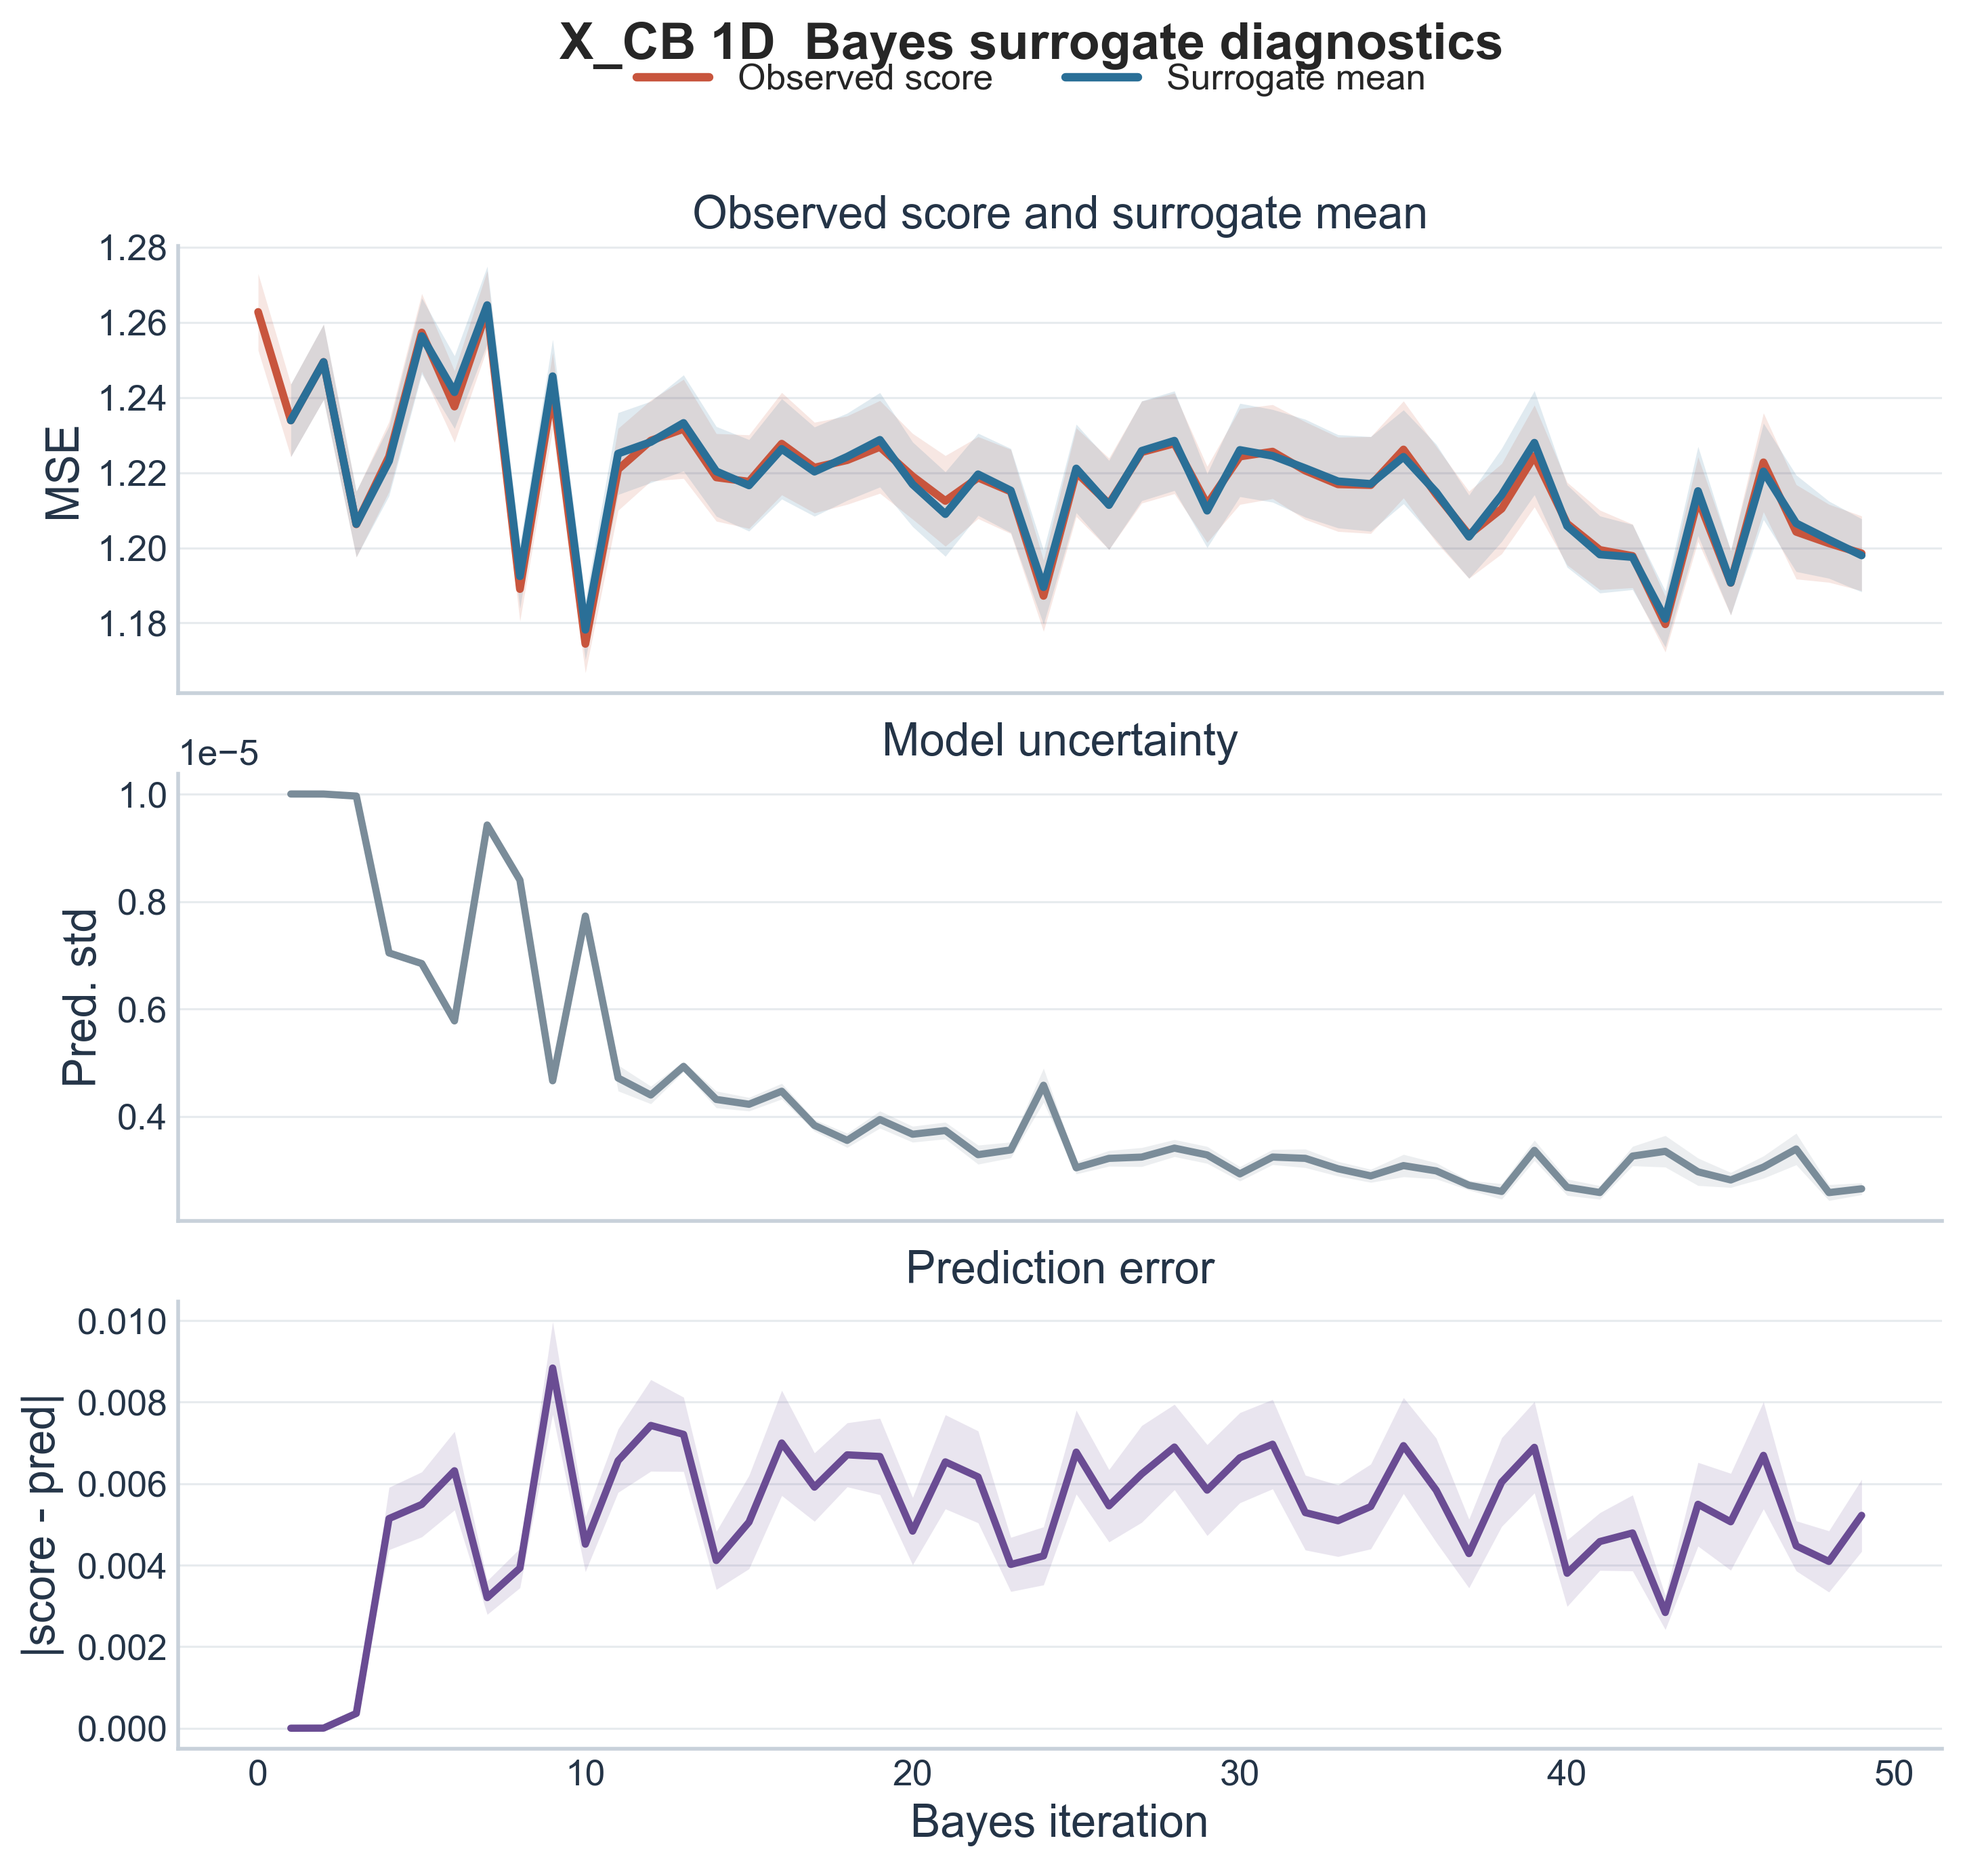
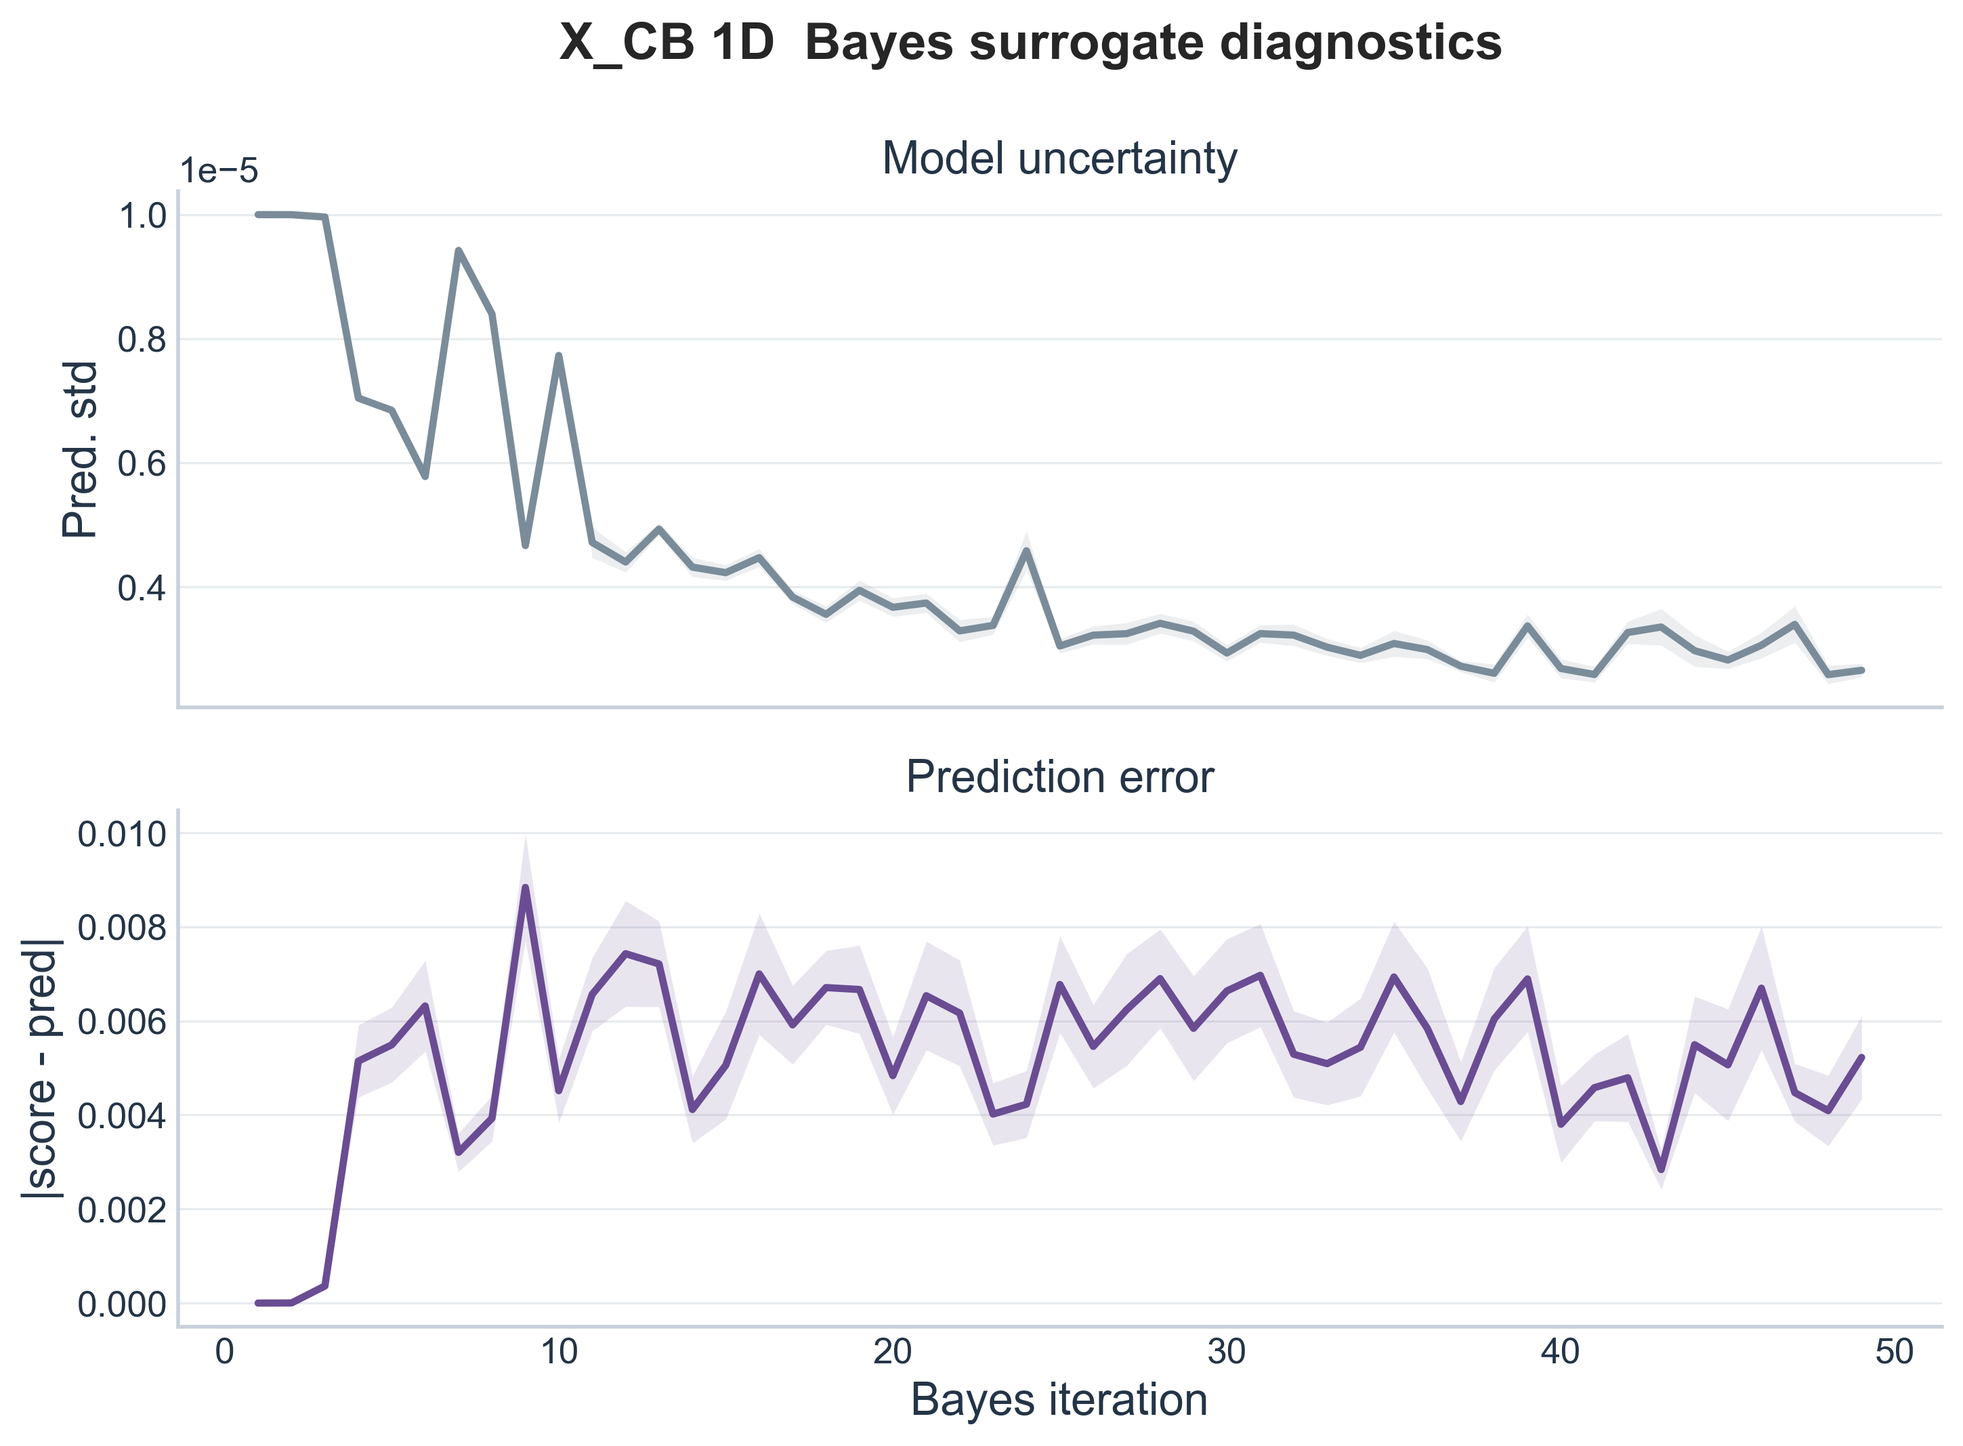
update bayes plots

diff --git a/analysis/plot_bayes_surrogates.py b/analysis/plot_bayes_surrogates.py
@@ -139,35 +139,22 @@ def plot_diagnostics(aggregated: pd.DataFrame) -> None:
                 continue
 
             fig, axes = plt.subplots(
-                3, 1, figsize=(10.5, 9), sharex=True, gridspec_kw={"hspace": 0.18}
+                2, 1, figsize=(10.5, 6.8), sharex=True, gridspec_kw={"hspace": 0.2}
             )
 
-            axes[0].plot(subset["iter"], subset["mean_score"], color=COLORS["obs"], linewidth=2.6)
-            add_ribbon(axes[0], subset["iter"], subset["mean_score"], subset["se_score"], COLORS["obs"])
-            axes[0].plot(subset["iter"], subset["mean_pred_mu"], color=COLORS["pred"], linewidth=2.6)
-            add_ribbon(axes[0], subset["iter"], subset["mean_pred_mu"], subset["se_pred_mu"], COLORS["pred"])
-            axes[0].set_ylabel("MSE")
-            axes[0].set_title("Observed score and surrogate mean")
+            axes[0].plot(subset["iter"], subset["mean_pred_std"], color=COLORS["unc"], linewidth=2.4)
+            add_ribbon(axes[0], subset["iter"], subset["mean_pred_std"], subset["se_pred_std"], COLORS["unc"])
+            axes[0].set_ylabel("Pred. std")
+            axes[0].set_title("Model uncertainty")
             style_axis(axes[0])
 
-            axes[1].plot(subset["iter"], subset["mean_pred_std"], color=COLORS["unc"], linewidth=2.4)
-            add_ribbon(axes[1], subset["iter"], subset["mean_pred_std"], subset["se_pred_std"], COLORS["unc"])
-            axes[1].set_ylabel("Pred. std")
-            axes[1].set_title("Model uncertainty")
+            axes[1].plot(subset["iter"], subset["mean_abs_error"], color=COLORS["err"], linewidth=2.4)
+            add_ribbon(axes[1], subset["iter"], subset["mean_abs_error"], subset["se_abs_error"], COLORS["err"])
+            axes[1].set_ylabel("|score - pred|")
+            axes[1].set_xlabel("Bayes iteration")
+            axes[1].set_title("Prediction error")
             style_axis(axes[1])
 
-            axes[2].plot(subset["iter"], subset["mean_abs_error"], color=COLORS["err"], linewidth=2.4)
-            add_ribbon(axes[2], subset["iter"], subset["mean_abs_error"], subset["se_abs_error"], COLORS["err"])
-            axes[2].set_ylabel("|score - pred|")
-            axes[2].set_xlabel("Bayes iteration")
-            axes[2].set_title("Prediction error")
-            style_axis(axes[2])
-
-            legend_handles = [
-                Line2D([0], [0], color=COLORS["obs"], lw=2.8, label="Observed score"),
-                Line2D([0], [0], color=COLORS["pred"], lw=2.8, label="Surrogate mean"),
-            ]
-            fig.legend(handles=legend_handles, loc="upper center", ncols=2, frameon=False, bbox_to_anchor=(0.5, 0.99))
             fig.suptitle(
                 f"{learner.upper()} {dimension.upper()}  Bayes surrogate diagnostics",
                 y=0.995,
